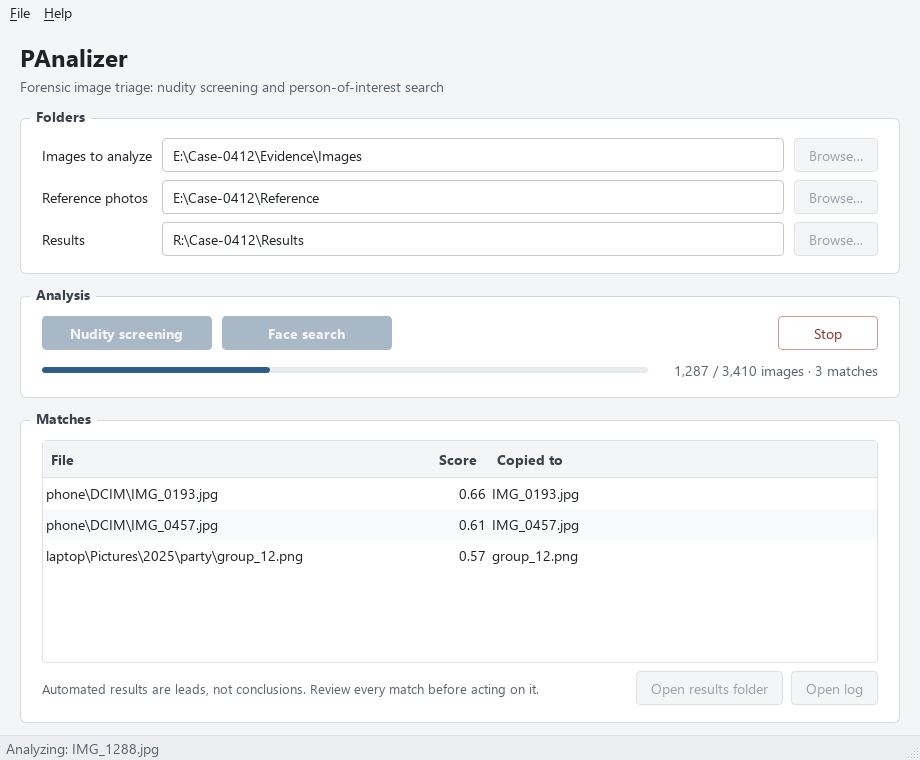
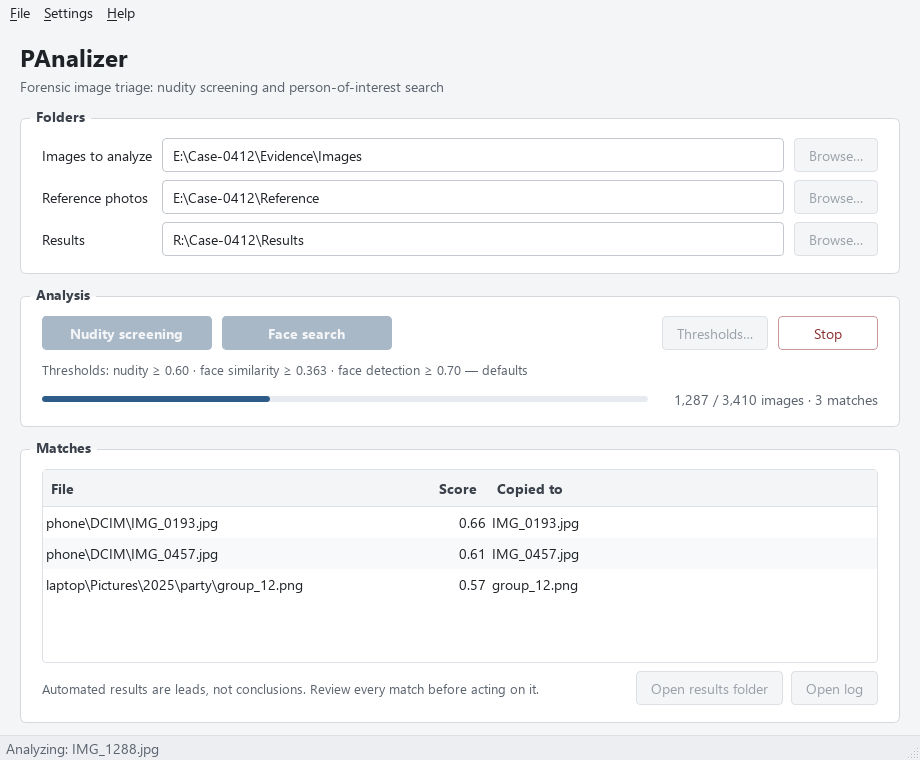
Document adjustable thresholds
README: thresholds table (defaults, ranges, effect of lowering), how the
values in use are shown and logged, and that they always reset to the
defaults. The 'Fixed thresholds' limitation becomes a caution about the
trade-off. Screenshot refreshed (fictitious data). CONTRIBUTING covers
both Qt Designer forms.

diff --git a/README.md b/README.md
@@ -147,6 +147,21 @@ on Windows or `~/.config/PAnalizer/PAnalizer.ini` on Linux. Use
 **File › Forget recent folders** to delete them, for example before handing
 the machine to another examiner.
 
+**Detection thresholds.** **Settings › Detection thresholds…** (or the
+**Thresholds…** button) changes, for the current session only:
+
+| Threshold | Default | Range | Effect of lowering it |
+|---|---|---|---|
+| Nudity score | 0.60 | 0.05–0.99 | More images flagged, more false positives |
+| Face similarity | 0.363 | 0.10–0.90 | More matches, including other people |
+| Face detection confidence | 0.70 | 0.30–0.99 | Smaller or partly hidden faces found, more non-faces |
+
+The values in use are shown under the analysis buttons ("modified for this
+session" when they differ from the defaults), and every session log records
+them with a `default_thresholds` flag. They are never saved: PAnalizer always
+starts with the defaults, so a value changed for one case is not carried into
+the next.
+
 **Help › About PAnalizer** shows the version, license and third-party
 licenses.
 
@@ -156,7 +171,8 @@ licenses.
 PAnalizer.py                      Entry point: starts the Qt application
 ViewModels/PAnalizerViewModel.py  Main window and background scan workers
 Views/PAnalizerView.ui            Qt Designer layout
-Views/PAnalizerView_ui.py         Python code generated from the .ui file (pyuic5)
+Views/ThresholdsDialog.ui         Qt Designer layout of the thresholds dialog
+Views/*_ui.py                     Python code generated from the .ui files (pyuic5)
 Views/style.qss                   Interface style sheet (colors, spacing)
 docs/screenshot.png               Screenshot used in this README
 Libs/ImageScanner.py              Nudity detection, face detection/recognition, copies, log
@@ -173,9 +189,11 @@ Read these before relying on any result.
 - **Accuracy has not been measured** on any dataset for this tool. Both
   models produce false positives and false negatives; validate them on data
   representative of your cases.
-- **Fixed thresholds.** The nudity score threshold (0.6), the face similarity
-  threshold (0.363) and the face detection confidence (0.7) are set in
-  `Libs/ImageScanner.py` and cannot be changed from the interface.
+- **Thresholds trade misses for false positives.** The defaults (nudity 0.60,
+  face similarity 0.363, face detection 0.70) were not tuned on a labeled
+  dataset; lowering them finds more but reports more images that do not
+  match. Record any change in your case notes (the session log records the
+  values used).
 - **Small details can be missed.** NudeNet analyzes images at 320 pixels, and
   face detection runs on images reduced to at most 1280 pixels on their longest
   side, so small or distant people and faces may not be detected.

diff --git a/CONTRIBUTING.md b/CONTRIBUTING.md
@@ -32,8 +32,8 @@ Both run in CI on Linux and Windows for Python 3.11–3.13.
 
 - Keep each pull request focused on one change and describe what it does and
   how you tested it.
-- `Views/PAnalizerView_ui.py` is generated from `Views/PAnalizerView.ui`.
-  Edit the `.ui` file in Qt Designer and regenerate it with
+- `Views/*_ui.py` files are generated from the `Views/*.ui` forms. Edit the
+  `.ui` file in Qt Designer and regenerate it, for example
   `pyuic5 Views/PAnalizerView.ui -o Views/PAnalizerView_ui.py`.
 - Colors and spacing live in `Views/style.qss`. Keep the interface sober:
   neutral colors, one accent, and no thumbnails of analyzed images.
